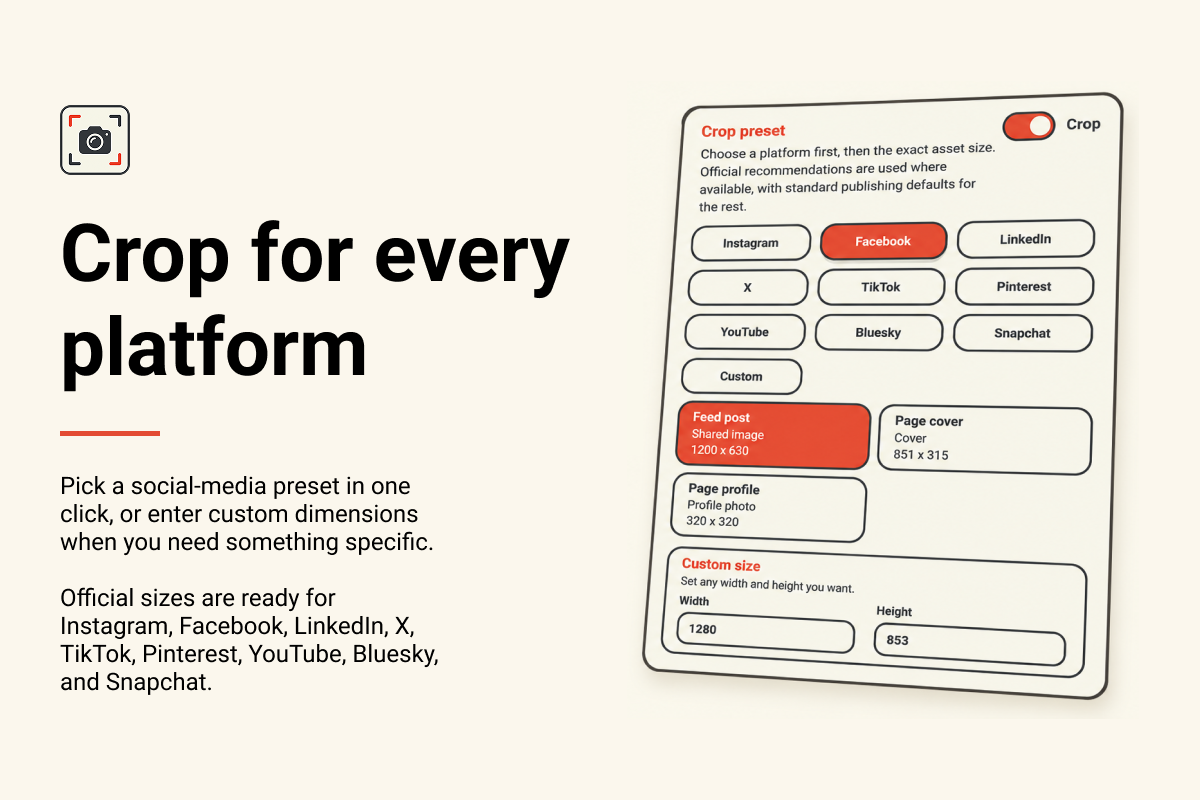
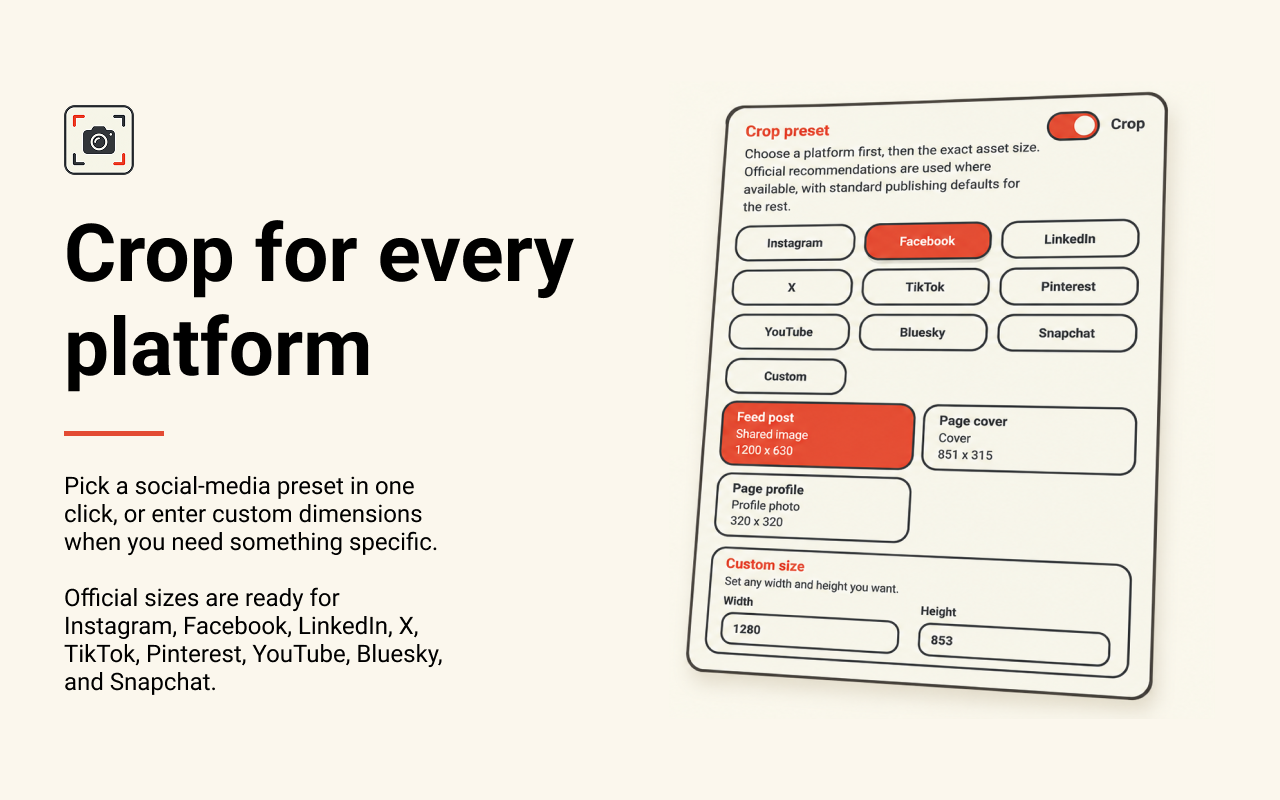
docs: update README with detailed features and usage instructions; add new screenshots

diff --git a/README.md b/README.md
@@ -1,13 +1,16 @@
 # Crop & Convert (Chrome MV3)
 
-Lightweight image processing tool. Crop images to 1:1 or 16:9 and convert JPG/PNG to **WEBP**, individually or in batch.
+Lightweight image-prep extension for Chrome. Crop images to common social-media sizes or a fully custom size, then export them as **WEBP**, **JPG**, or **PNG** directly from the popup.
 
 ## What it does
 
-- Crop images to two different formats: 1:1 (square) and 16:9 (landscape)
-- Convert JPG and PNG files to WEBP format to optimize size and quality
-- Batch processing: handle multiple images at once
-- Independent workflows: crop and convert without requiring both steps
+- Choose ready-made presets for `Instagram`, `Facebook`, `LinkedIn`, `X`, `TikTok`, `Pinterest`, `YouTube`, `Bluesky`, and `Snapchat`
+- Use a **Custom** mode with manual width and height inputs
+- Crop a single image with live preview
+- Convert images to `WEBP`, `JPG`, or `PNG`
+- Batch-process multiple files at once
+- Download processed files individually or as a single ZIP
+- Remember the last selected platform, preset, format, crop toggle, and custom dimensions
 
 ## Structure
 
@@ -30,6 +33,6 @@ Lightweight image processing tool. Crop images to 1:1 or 16:9 and convert JPG/PN
 
 ## Permissions Used
 
-- None. The extension works fully client-side with no special permissions required.
+- `storage`: used only to remember the user's last selected platform, preset, export format, crop toggle state, and custom size values.
 
-> This extension is under development and is not yet available in the Chrome Web Store.
+> All image processing runs locally in the browser. No accounts, uploads, or external services are required.
